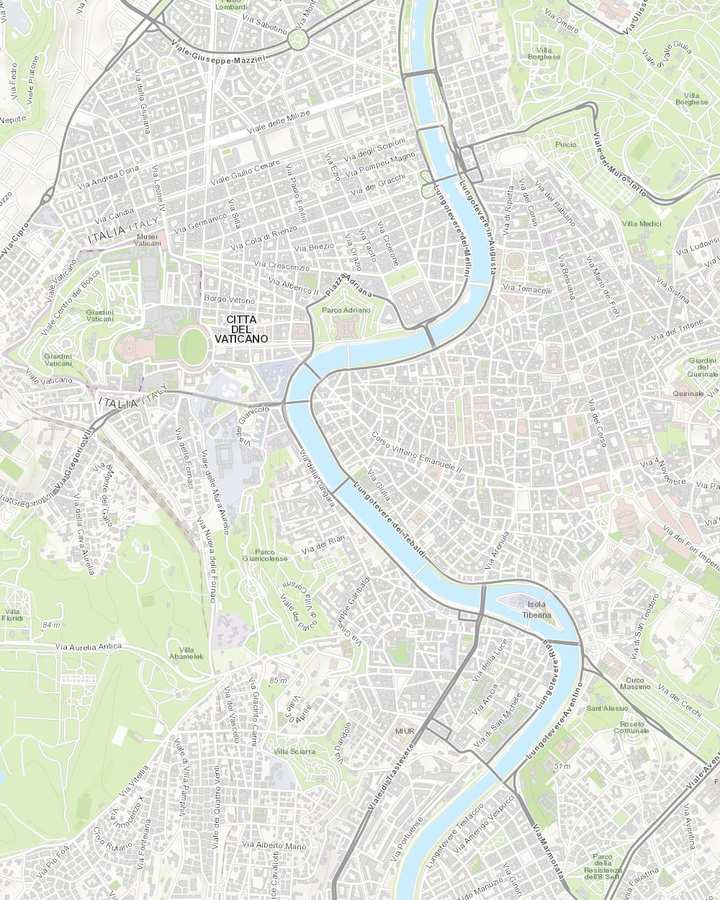
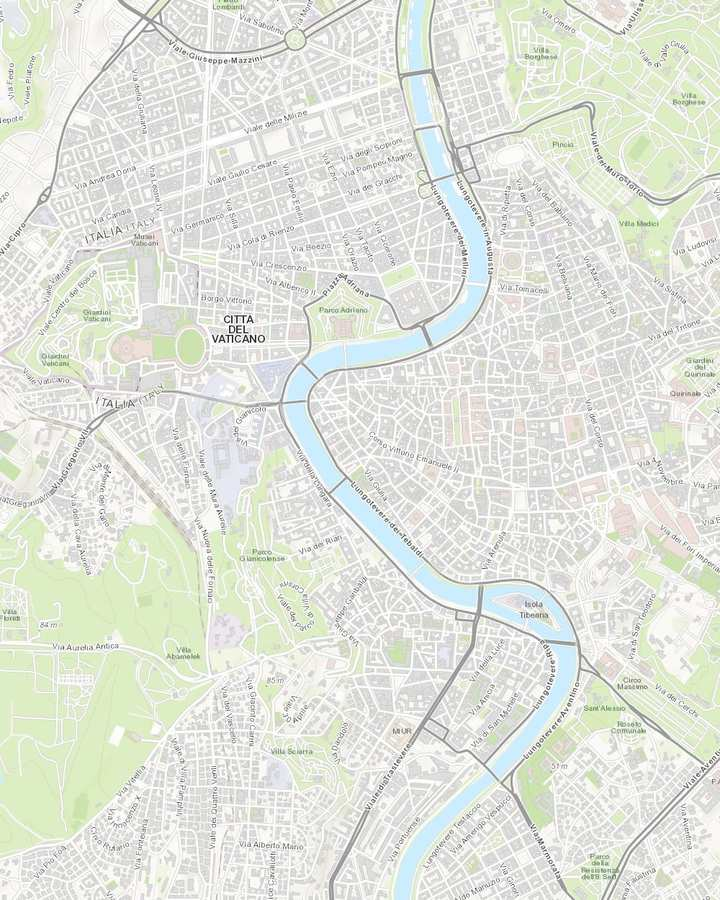
第 37 轮：博尔盖塞放弃→D2 巴贝里尼宫 + 特雷维 + 可选万神殿，D3 上午 Doria Pamphilj；地图 2、3 重画

diff --git a/index.html b/index.html
@@ -671,16 +671,17 @@ var DAYS = [
   drive:"", stayShort:"罗马 Castro Pretorio",
   stay:{ t:"罗马 Castro Pretorio 3 · 第 2 晚", d:"Via del Castro Pretorio 30。", addr:"Via del Castro Pretorio 30, 00185 Roma" },
   wc:["roma"],
-  flag:"※ 13:15 集合是硬时间。博尔盖塞没票：16:15 前到馆排 last minute 现场票（Plan A），最晚 17:50 没排上就走 Plan B；不想赌就直接 Plan C Palazzo Barberini。今天打车 3 次共约 €30-45",
+  flag:"※ 13:15 集合是硬时间。博尔盖塞售罄放弃，下午改巴贝里尼宫。今天打车 2 次约 €20-25（斗兽场→巴贝里尼宫、晚饭后回家）",
   route:[
     {n:"Castro Pretorio 3 民宿", m:"Via del Castro Pretorio 30 Roma", leg:"步行约 5 分钟"},
     {n:"早午饭 Faro Caffè Specialty", m:"Faro Caffe Specialty Via Piave 55 Roma", leg:"步行约 11 分钟"},
     {n:"圣母胜利教堂 · 贝尼尼《圣特雷莎的狂喜》", m:"Santa Maria della Vittoria Roma", leg:"步行 9 分钟到 Termini · B 线一站到 Cavour"},
     {n:"Madonna dei Monti 小广场", m:"Piazza della Madonna dei Monti Roma", leg:"步行约 10 分钟"},
-    {n:"斗兽场 + 古罗马广场", m:"Colosseo", leg:"🚕 约 15 分钟"},
-    {n:"博尔盖塞美术馆（排现场票；Plan B 走公园到 Pincio 露台；Plan C 改去 Palazzo Barberini）", m:"Galleria Borghese Roma", leg:"🚕 约 10 分钟（或经西班牙台阶走 30 分钟）"},
-    {n:"晚饭 Pietro al Pantheon", m:"Pietro al Pantheon Via dei Pastini 125 Roma", leg:"步行约 7 分钟"},
-    {n:"特雷维喷泉夜景", m:"Fontana di Trevi Roma", leg:"🚕 约 8 分钟"},
+    {n:"斗兽场 + 古罗马广场", m:"Colosseo", leg:"🚕 约 7 分钟"},
+    {n:"巴贝里尼宫", m:"Palazzo Barberini Roma", leg:"步行约 10 分钟"},
+    {n:"特雷维喷泉", m:"Fontana di Trevi Roma", leg:"步行约 9 分钟"},
+    {n:"万神殿（可选，进去 25 分钟）", m:"Pantheon Roma", leg:"步行约 1 分钟"},
+    {n:"晚饭 Pietro al Pantheon", m:"Pietro al Pantheon Via dei Pastini 125 Roma", leg:"🚕 约 8 分钟"},
     {n:"Castro Pretorio 3 民宿", m:"Via del Castro Pretorio 30 Roma"}
   ],
   steps:[
@@ -720,33 +721,25 @@ var DAYS = [
       need:["三本护照——实名制，闸机查证件","讲解团确认单 / 集合点通知"],
       ticket:true, nav:{m:"Colosseo", mode:"walking"}, place:"Colosseo",
       video:"https://search.bilibili.com/all?keyword=%E6%96%97%E5%85%BD%E5%9C%BA%20%E8%AE%B2%E8%A7%A3" },
-    { id:"d2-5", t:"16:00", hard:"16:15 前到馆，越早越稳", e:"🚕", a:"出园直接打车 15 分钟去博尔盖塞美术馆",
-      sub:"美术馆在西班牙台阶北边的博尔盖塞公园里，离斗兽场 4 公里；地铁要换乘再走 20 分钟上坡，打车最省事。告诉司机 Galleria Borghese，在正门台阶前下车；到了别在公园坐，直接进去排队。选 Plan C 的话，这程改去 Palazzo Barberini，7 分钟。",
-      nav:{m:"Galleria Borghese Roma", mode:"driving"} },
-    { id:"d2-6", t:"16:15", e:"🎟", a:"Plan A：排 last minute 现场票", it:"Galleria Borghese · biglietti last minute",
-      sub:"我们没票。正门（上面插三面旗）的双向台阶下面正中间那个拱门进去，就是地下一层的售票处、存包处和书店。门口立着 Today sold out 的牌子不用管，那是预约票卖完的意思。进去往里走，卡拉瓦乔《捧果篮的男孩》海报旁边就是 last minute 的队，开口问工作人员「where is the end of the last minute line」，别排错队。每个整点场放约 13 张现场票，工作人员看退票和没来的人数常会多放几个，一般 x:20 到整点前陆续放；每人限买 2 张，所以爸爸和我一起排、各买一次。16:15 到，排 40 分钟到 1 小时，大概率拿到 17:00 场；没拿到就接着排 17:45 场（到 19:00 清场，只有 1 小时 15 分）。",
-      tips:["排队时先把超过 21×15 cm 的包存了（免费），买完票直接进","买票旁边的柜台租中文讲解器 €5 一个，押存包小票就行，不用押证件","妈妈可以先在馆内咖啡座或公园长椅歇着，放人时再叫她","1、4 月有帖子遇到过只放 1 个名额、或队伍太长被禁止再排的情况，所以宁可早到，也别抱必进的期待"],
-      need:["信用卡或 Apple Pay：现场票 €16–18/人（含 €2 预约费），17:45 场 €13"],
-      warn:["售票处 18:00 关门，18:00 前没拿到票就是没了","别信门口拉客卖「今日票」的人"],
-      ticket:true, nav:{m:"Galleria Borghese Roma", mode:"walking"}, place:"Galleria Borghese Roma" },
-    { id:"d2-6b", t:"17:00 或 17:45", hard:"到点清场，19:00 全馆关门", e:"🖼", a:"排到了：进馆看贝尼尼和卡拉瓦乔", it:"Galleria Borghese",
-      sub:"17:00 场有 2 小时，1.5 小时够；17:45 场只有 1 小时 15 分，就只看一楼。",
-      tips:["重点在一楼：贝尼尼四件（阿波罗与达芙妮、普鲁托与珀耳塞福涅、大卫、埃涅阿斯）和卡拉瓦乔；二楼的画挑着看","快到点广播会催，别恋战"],
-      place:"Galleria Borghese Roma",
-      video:"https://www.bilibili.com/video/BV18cKoz6Esa/" },
-    { id:"d2-6c", t:"最晚 17:50", e:"🌳", a:"Plan B：没排上 → 公园走到 Pincio 露台看日落，再去万神殿", optional:true,
-      sub:"工作人员说这场满了、或 17:50 还没拿到票，就放弃。从美术馆往西穿博尔盖塞公园走 15–20 分钟到 Terrazza del Pincio，露台正对人民广场，10/7 日落约 18:40。看完从台阶下到人民广场，打车 8 分钟到万神殿（顺 Via del Corso 走要 25 分钟，不走），先看广场夜景，19:30 按原订位吃饭；想早点吃就打电话给 Pietro al Pantheon 改 19:00。",
-      tips:["早早放弃（17:00 前）的话，公园里的 Giardino del Lago 小湖和 Pincio 之间慢慢走，正好耗到日落","这条线本来就是晚饭前的下坡路，不绕"],
-      nav:{m:"Terrazza del Pincio Roma", mode:"walking"}, place:"Terrazza del Pincio Roma" },
-    { id:"d2-6d", t:"16:15 起", e:"🖼", a:"Plan C 不排队：Palazzo Barberini 1.5 小时（卡拉瓦乔、拉斐尔、贝尼尼）", it:"Gallerie Nazionali di Arte Antica · Palazzo Barberini", optional:true,
-      sub:"不想赌现场票就选这条：斗兽场团散了打车 7 分钟到 Via delle Quattro Fontane 13。周二至周日 10:00–19:00，售票处 18:00 关，周三开；成人 €15（65 岁以上没有优惠），票 20 天内还能进一次 Galleria Corsini；现场买，也可以在 coopculture.it 预订。重点三件：24 号厅卡拉瓦乔《朱迪斯斩首荷罗孚尼》、16 号厅拉斐尔《弗娜丽娜》、贝尼尼的乌尔班八世铜像；大厅天顶是科尔托纳的《神意的胜利》巨幅湿壁画，两座楼梯一座贝尼尼一座博罗米尼。17:45 出来走 10 分钟到特雷维喷泉看白天版，再走 9 分钟到万神殿广场，19:30 晚饭；晚上那步特雷维夜景就可以省了。",
+    { id:"d2-5", t:"16:00", e:"🚕", a:"出园打车 7 分钟到巴贝里尼宫",
+      sub:"散团后在 Via dei Fori Imperiali 那侧拦车或 FreeNow，跟司机说 Palazzo Barberini, Via delle Quattro Fontane 13。16:10 到，售票处 18:00 关，进去先买票。",
+      nav:{m:"Palazzo Barberini Roma", mode:"driving"} },
+    { id:"d2-6", t:"16:15", e:"🖼", a:"巴贝里尼宫 1.5 小时：卡拉瓦乔、拉斐尔、贝尼尼", it:"Gallerie Nazionali di Arte Antica · Palazzo Barberini",
+      sub:"博尔盖塞的替代，周三开。周二至周日 10:00–19:00，售票处 18:00 关；成人 €15，票 20 天内还能进一次 Galleria Corsini；现场买，也可以在 coopculture.it 预订。重点三件：24 号厅卡拉瓦乔《朱迪斯斩首荷罗孚尼》、16 号厅拉斐尔《弗娜丽娜》、贝尼尼的乌尔班八世铜像；大厅天顶是科尔托纳的《神意的胜利》巨幅湿壁画，两座楼梯一座贝尼尼一座博罗米尼。17:45 出来。",
       tips:["和博尔盖塞比：少了贝尼尼四件大雕塑，多了两幅一线名画，不用排队；贝尼尼上午在圣母胜利教堂已经看过最好的一件","《朱迪斯》约 1599 年，卡拉瓦乔最血腥的一张；《弗娜丽娜》是拉斐尔情人的画像"],
-      addr:["Palazzo Barberini：Via delle Quattro Fontane 13, Roma"],
-      nav:{m:"Palazzo Barberini Roma", mode:"driving"}, place:"Palazzo Barberini Roma",
+      need:["€15 × 3，刷卡"],
+      ticket:true, addr:["Palazzo Barberini：Via delle Quattro Fontane 13, Roma"],
+      nav:{m:"Palazzo Barberini Roma", mode:"walking"}, place:"Palazzo Barberini Roma",
       link:{u:"https://www.coopculture.it/it/prodotti/biglietto-individuali-palazzo-barberini/", l:"coopculture.it 买票"} },
-    { id:"d2-7", t:"19:00", e:"🚕", a:"Porta Pinciana 门出公园，打车 10 分钟到万神殿边上",
-      sub:"Plan A 看完 19:00 出来，19:15 就到，早到就在万神殿广场坐一会。",
-      nav:{m:"Pietro al Pantheon Via dei Pastini 125 Roma", mode:"driving"} },
+    { id:"d2-7", t:"17:45", e:"⛲", a:"走 10 分钟到特雷维喷泉，看白天版 10 分钟",
+      sub:"沿 Via delle Quattro Fontane 下坡、右转 Via del Tritone 到头。靠水的内圈 2026 年起收 €2（22:00 后免费），外圈台阶上看免费，白天看一眼就好。看完走 9 分钟到万神殿广场。",
+      nav:{m:"Fontana di Trevi Roma", mode:"walking"}, place:"Fontana di Trevi Roma" },
+    { id:"d2-7b", t:"18:15", e:"🏛", a:"有精力：万神殿进去 25 分钟（€7，手机现买 18:00 时段）+ 隔壁圣依纳爵假穹顶 10 分钟", it:"Pantheon · Sant'Ignazio", optional:true,
+      sub:"看精力定，不用提前买票。里面一个圆厅：穹顶和天眼那束光、拉斐尔的墓、两位国王的墓，25 分钟够。18:30 是最后入场，售票处 18:00 关，所以只能网上买：在巴贝里尼宫里觉得还有劲，就用 Musei Italiani App 买 18:00 那档（步骤见准备）。出来走 3 分钟到圣依纳爵堂（Via del Caravita 8/A，免费，开到 23:30）：中殿地上大理石圆盘站上去抬头看假穹顶，往祭坛走 3 米回头它就歪了；中央躺着的大镜子不用仰头看天顶画。没精力就在万神殿广场坐着等 19:30。",
+      tips:["Musei Italiani App 买票：搜 Pantheon → 日期 07/10/2026 → 时段 18:00 → 3 张 Intero → 填三个人名（实名）→ 刷卡 → 二维码在 App 和邮件里，进门出示 + 护照","每个时段 1,200 人，10 月傍晚一般买得到；买不到就不进，看外面"],
+      addr:["Pantheon：Piazza della Rotonda, Roma","Chiesa di Sant'Ignazio：Via del Caravita 8/A, Roma"],
+      nav:{m:"Pantheon Roma", mode:"walking"}, place:"Pantheon Roma",
+      link:{u:"https://portale.museiitaliani.it/", l:"官方售票 portale.museiitaliani.it"} },
     { id:"d2-8", t:"19:30", e:"🍝", a:"晚饭 Pietro al Pantheon：罗马四大面 + 炸洋蓟 + 番茄炖牛尾", kind:"eat",
       sub:"万神殿东边小巷里的老馆子。罗马菜的招牌四种面（carbonara、cacio e pepe、amatriciana、gricia）、炸洋蓟、牛尾 coda alla vaccinara、炸西葫芦花这家全有；出门两分钟就是万神殿广场，明早再进去看。",
       meals:[
@@ -761,11 +754,8 @@ var DAYS = [
       ],
       addr:["Pietro al Pantheon：Via dei Pastini 125, Roma","Antonio al Pantheon：Via dei Pastini 12, Roma"],
       nav:{m:"Pietro al Pantheon Via dei Pastini 125 Roma", mode:"walking"} },
-    { id:"d2-9", t:"21:15", e:"⛲", a:"先看一眼万神殿广场夜景，再走 7 分钟到特雷维喷泉",
-      sub:"喷泉内圈 22:00 前开放，晚上人比白天少。",
-      nav:{m:"Fontana di Trevi Roma", mode:"walking"}, place:"Fontana di Trevi Roma" },
     { id:"d2-10", t:"饭后", e:"🚕", a:"打车 8 分钟回家",
-      sub:"想走的话 20 分钟。住处 12 分钟外的 Come il Latte（Via Silvio Spaventa 24，Google 4.7 / 4,879 评）是罗马数一数二的冰淇淋，12:00 起营业，哪天回来早顺路吃。",
+      sub:"想走的话 20 分钟；还想看特雷维夜景版就先走 7 分钟过去（22:00 后内圈免费）再打车。住处 12 分钟外的 Come il Latte（Via Silvio Spaventa 24，Google 4.7 / 4,879 评）是罗马数一数二的冰淇淋，12:00 起营业，哪天回来早顺路吃。",
       nav:{m:"Via del Castro Pretorio 30 Roma", mode:"driving"} }
   ]
 },
@@ -776,11 +766,10 @@ var DAYS = [
   drive:"", stayShort:"罗马 Castro Pretorio",
   stay:{ t:"罗马 Castro Pretorio 3 · 第 3 晚（明早退房）", d:"Via del Castro Pretorio 30 · 退房 10:00。", addr:"Via del Castro Pretorio 30, 00185 Roma" },
   wc:["roma"],
-  flag:"※ 13:15 集合是硬时间；梵蒂冈着装过膝盖、过肩膀。今天打车 3 次约 €35（早上那程可换 40/64 路公交）",
+  flag:"※ 13:15 集合是硬时间；梵蒂冈着装过膝盖、过肩膀。今天打车 3 次约 €35（早上那程可换 40/64 路公交到 Piazza Venezia）",
   route:[
     {n:"Castro Pretorio 3 民宿", m:"Via del Castro Pretorio 30 Roma", leg:"🚕 约 10 分钟"},
-    {n:"万神殿", m:"Pantheon Roma", leg:"步行约 3 分钟"},
-    {n:"圣依纳爵堂 假穹顶", m:"Chiesa di Sant Ignazio di Loyola Roma", leg:"步行约 8 分钟"},
+    {n:"Doria Pamphilj 美术馆", m:"Galleria Doria Pamphilj Roma", leg:"步行约 7 分钟"},
     {n:"纳沃纳广场", m:"Piazza Navona Roma", leg:"步行约 15 分钟 · 过圣天使桥"},
     {n:"圣天使堡（外观）", m:"Castel Sant Angelo Roma", leg:"步行约 10 分钟"},
     {n:"早午饭 Il Sorpasso", m:"Il Sorpasso Via Properzio 31 Roma", leg:"步行约 15 分钟"},
@@ -791,33 +780,29 @@ var DAYS = [
     {n:"Castro Pretorio 3 民宿", m:"Via del Castro Pretorio 30 Roma"}
   ],
   steps:[
-    { id:"d3-1", t:"9:15", e:"🚕", a:"出门打车 10 分钟到万神殿（€10 左右）",
-      sub:"万神殿不通地铁。三种走法：打车最省事；Termini 坐 40 或 64 路公交到 Largo Argentina 再走 5 分钟（这两路扒手多，包背身前）；或者走 35 分钟。早上先看老城中心，再往梵蒂冈方向走，不走回头路。",
-      nav:{m:"Pantheon Roma", mode:"driving"} },
-    { id:"d3-2", t:"9:30", e:"🏛", a:"万神殿：开门后半小时内进，排队最短", it:"Pantheon",
-      sub:"9:00 开门；门票 €7（2026 年 7 月起）实名，官网 10 月 1 日后当月开卖，提前买好省掉售票队，只剩安检队；9:30 前到一般十来分钟。里面 30 分钟够。今天到 13:15 集合之间有 3.5 小时余量，就算排 30 分钟也吃得下；真排太长就只看外面，去纳沃纳。出来在旁边 Sant'Eustachio 站着喝杯咖啡。",
-      need:["万神殿门票（官网当月买，或现场）","护照（票实名）"],
-      nav:{m:"Pantheon Roma", mode:"walking"}, place:"Pantheon Roma",
-      video:"https://search.bilibili.com/all?keyword=%E4%B8%87%E7%A5%9E%E6%AE%BF%20%E8%AE%B2%E8%A7%A3" },
-    { id:"d3-2b", t:"10:05", e:"🎨", a:"圣依纳爵堂看假穹顶，10 分钟", it:"Sant'Ignazio di Loyola",
-      sub:"万神殿出来走 3 分钟（Via del Caravita 8/A），免费，每天 9:00–23:30。中殿地上有个大理石圆盘：站上去抬头看 30 秒，头顶那个穹顶其实是画在平面画布上的；再往祭坛方向走 3 米回头看，它就歪了。中殿中央还有一面躺着的大镜子，不用仰头就能看天顶画，也是拍照点，有人排队自拍，看画不用排。看完走 8 分钟到纳沃纳。",
-      tips:["这个假穹顶别处没有；同一种天顶画法 5 分钟外的耶稣堂也有，不用再去","18:30 有弥撒；晚上开到 23:30，D2 晚饭后顺路也能来，但天顶画白天看得清楚"],
-      addr:["Chiesa di Sant'Ignazio：Via del Caravita 8/A, Roma"],
-      nav:{m:"Chiesa di Sant Ignazio di Loyola Roma", mode:"walking"}, place:"Chiesa di Sant Ignazio di Loyola Roma" },
-    { id:"d3-3", t:"10:30", e:"⛲", a:"纳沃纳广场",
+    { id:"d3-1", t:"9:45", e:"🚕", a:"出门打车 10 分钟到 Doria Pamphilj 美术馆（€10 左右）",
+      sub:"Via del Corso 305，Piazza Venezia 北边，跟司机说 Palazzo Doria Pamphilj。不想打车：Termini 坐 40 或 64 路到 Piazza Venezia 再走 3 分钟（这两路扒手多，包背身前）。早上先看老城中心，再往梵蒂冈方向走，不走回头路。",
+      nav:{m:"Galleria Doria Pamphilj Roma", mode:"driving"} },
+    { id:"d3-2", t:"10:00", e:"🖼", a:"Doria Pamphilj 美术馆 1 小时：委拉斯开兹、卡拉瓦乔、贝尼尼", it:"Galleria Doria Pamphilj",
+      sub:"私家宫殿改的画廊，人少安静。周四 9:00–19:00（末入 18:00），周三闭馆。票 €16 现场买（网订 €17 还要选半小时时段，不用），含语音导览（英文版是这家后人亲自录的，跟着走就行）。重点：委拉斯开兹《教皇英诺森十世》（培根反复画的那张，单独一个小间）、贝尼尼给同一位教皇做的大理石胸像就在旁边、卡拉瓦乔《逃往埃及途中的休息》和《忏悔的抹大拉》、提香《莎乐美》；镜厅本身值得站一分钟。11:00 出来走 7 分钟到纳沃纳。",
+      need:["€16 × 3，刷卡"],
+      ticket:true, addr:["Galleria Doria Pamphilj：Via del Corso 305, Roma"],
+      nav:{m:"Galleria Doria Pamphilj Roma", mode:"walking"}, place:"Galleria Doria Pamphilj Roma",
+      link:{u:"https://www.doriapamphilj.it/roma/", l:"doriapamphilj.it"} },
+    { id:"d3-3", t:"11:05", e:"⛲", a:"纳沃纳广场，15 分钟",
       sub:"广场东侧 Corso del Rinascimento 47 是佛罗伦萨那家 800 年药妆店 Santa Maria Novella 的罗马分店（4.6）。",
       nav:{m:"Piazza Navona Roma", mode:"walking"}, place:"Santa Maria Novella Corso del Rinascimento 47 Roma" },
-    { id:"d3-4", t:"11:00", e:"🌉", a:"走 15 分钟：过圣天使桥，看圣天使堡外观，进 Prati",
+    { id:"d3-4", t:"11:25", e:"🌉", a:"走 15 分钟：过圣天使桥，看圣天使堡外观，进 Prati",
       sub:"桥上是看台伯河和圣彼得穹顶的经典角度。",
       nav:{m:"Castel Sant Angelo Roma", mode:"walking"}, place:"Ponte Sant Angelo Roma" },
-    { id:"d3-5", t:"11:30", e:"🍝", a:"早午饭 Il Sorpasso", kind:"eat",
-      sub:"Prati 的 rustic-chic 小馆，坐下点单；吃完走 15 分钟到博物馆入口，13:15 集合。",
+    { id:"d3-5", t:"11:45", e:"🍝", a:"早午饭 Il Sorpasso", kind:"eat",
+      sub:"Prati 的 rustic-chic 小馆，坐下点单；12:50 吃完走 15 分钟到博物馆入口，13:15 集合。",
       meals:[
         {n:"Il Sorpasso", g:"4.4",
          d:"火腿拼盘、意面、parmigiana、tartare",
          h:"周四 9:00 起营业",
          w:"混搭桌椅的 shabby-chic 店面，切肉台是招牌；人均 €20-30",
-         b:"11:30 不订位有位", tel:"+39 06 8902 4554", m:"Il Sorpasso Via Properzio 31 Roma"},
+         b:"11:45 不订位有位", tel:"+39 06 8902 4554", m:"Il Sorpasso Via Properzio 31 Roma"},
         {n:"备选 Il Segreto", g:"4.8",
          d:"cacio e pepe、ravioli、烤牛排",
          h:"周四 12:00 开门",
@@ -826,7 +811,7 @@ var DAYS = [
       ],
       addr:["Il Sorpasso：Via Properzio 31/33, Roma","Il Segreto：Via Candia 71, Roma"],
       nav:{m:"Il Sorpasso Via Properzio 31 Roma", mode:"walking"} },
-    { id:"d3-5b", t:"12:35", e:"🍦", a:"饭后 4 分钟：Gelateria dei Gracchi", optional:true,
+    { id:"d3-5b", t:"12:45", e:"🍦", a:"饭后 4 分钟：Gelateria dei Gracchi", optional:true,
       sub:"Via dei Gracchi 272，Prati 本地人排队的老店；Google 4.5（3,084 评），当季水果口味和开心果；11:30 开门。吃完走 15 分钟去集合。",
       addr:["Gelateria dei Gracchi：Via dei Gracchi 272, Roma"],
       nav:{m:"Gelateria dei Gracchi Via dei Gracchi 272 Roma", mode:"walking"} },
@@ -1576,43 +1561,41 @@ var MAPS2 = {
   "2": {
     w:1000, h:1250,
     img:"maps/2.jpg",
-    walk:[[832,647],[835,644],[821,629],[819,627],[806,612],[804,611],[787,591],[772,574],[770,573],[767,574],[767,571],[766,568],[765,566],[763,564],[761,563],[759,562],[758,560],[757,558],[741,540],[739,538],[721,518],[719,516],[708,505],[706,503],[705,501],[690,485],[678,472],[670,480],[668,475],[667,472],[665,463],[664,458],[658,422],[658,417],[656,408],[656,405],[654,393],[654,393],[656,404],[656,407],[658,417],[658,422],[664,458],[664,462],[666,472],[665,474],[663,476],[657,481],[646,493],[644,494],[629,508],[627,510],[621,516],[611,525],[609,527],[603,532],[595,540],[593,541],[576,557],[561,572],[558,572],[555,569],[555,569],[557,571],[559,572],[558,574],[559,576],[563,581],[565,583],[567,585],[568,587],[577,597],[580,601],[584,605],[591,616],[593,617],[594,615],[597,615],[599,614],[601,613],[604,613],[607,613],[609,614],[610,618],[611,620],[613,623],[619,630],[621,631],[624,633],[635,635],[638,636],[644,638],[652,641],[654,642],[657,642],[660,642],[663,640],[665,642],[668,646],[670,648],[672,647],[674,646],[675,644],[678,644],[692,654],[694,652],[538,878],[536,881],[533,882],[532,880],[509,887],[508,885],[508,882],[507,879],[506,877],[495,879],[494,877],[492,870],[490,869],[484,871],[480,872],[477,873],[478,877],[479,882],[478,884],[477,886],[481,897],[481,900],[482,902],[487,915],[489,923],[493,935],[496,944],[501,963],[505,979],[506,982],[507,984],[509,985],[512,985],[514,984],[515,986],[512,987],[511,989],[505,989],[504,991],[504,994],[504,998],[507,275],[500,283],[498,285],[490,296],[479,309],[470,321],[468,324],[466,326],[451,346],[439,360],[434,368],[416,363],[407,360],[403,359],[370,348],[367,349],[361,344],[354,338],[340,327],[338,328],[335,329],[333,327],[330,328],[307,340],[282,353],[273,357],[268,360],[265,362],[258,364],[253,365],[245,368],[239,370],[226,374],[223,375],[222,373],[219,374],[217,372],[214,370],[216,367],[216,366],[457,611],[455,612],[452,613],[451,616],[453,618],[450,626],[448,628],[447,630],[452,634],[447,641],[445,639],[425,638],[422,639],[420,640],[401,645],[387,648],[385,646],[383,645],[381,647],[379,649],[376,652],[360,662],[341,675],[339,672],[335,675],[327,680],[324,682],[313,689],[311,687],[309,686],[305,688],[302,688],[300,687],[298,685],[300,691],[295,694],[290,696],[284,698],[280,701],[269,704],[251,709],[247,710],[248,712],[245,712],[239,713],[231,714],[223,715],[217,715],[208,715],[203,718],[199,721],[197,722],[194,725],[190,728],[188,729],[180,731],[175,732],[175,732],[180,731],[188,729],[190,728],[194,725],[197,724],[199,721],[203,718],[208,715],[217,715],[222,715],[231,714],[238,714],[244,712],[248,712],[247,710],[251,709],[269,704],[280,701],[284,699],[290,696],[295,694],[299,692],[297,685],[299,687],[301,688],[304,687]],
-    walkBreaks:[37, 62, 106, 147, 187, 244],
-    drive:[[504,983],[507,983],[509,982],[513,981],[519,983],[523,984],[527,985],[529,983],[530,980],[533,976],[533,973],[534,971],[535,967],[540,954],[543,956],[548,958],[554,960],[558,961],[561,962],[565,962],[568,962],[571,962],[574,961],[577,960],[580,959],[584,958],[586,956],[593,951],[598,947],[615,932],[621,927],[630,918],[632,917],[634,915],[646,905],[648,903],[657,895],[662,891],[677,878],[679,876],[683,872],[685,870],[689,870],[695,870],[698,871],[697,868],[695,862],[694,860],[689,849],[687,844],[686,842],[677,820],[677,817],[678,814],[679,812],[682,808],[683,806],[683,803],[682,801],[680,799],[679,797],[679,788],[677,785],[675,783],[666,776],[657,771],[655,769],[650,767],[638,759],[636,758],[634,756],[632,752],[623,733],[622,731],[620,729],[614,716],[611,709],[606,699],[604,695],[601,688],[595,676],[590,668],[583,654],[581,651],[583,650],[585,649],[590,645],[594,642],[596,640],[598,639],[601,638],[604,637],[607,637],[610,636],[611,634],[613,631],[613,628],[612,626],[611,624],[609,623],[607,622],[604,622],[602,621],[600,620],[598,619],[597,617],[595,616],[590,610],[586,605],[582,600],[591,592],[600,585],[609,577],[616,571],[618,569],[602,551],[597,545],[595,544],[593,541],[585,531],[583,530],[581,529],[560,522],[558,521],[556,520],[555,518],[552,503],[550,495],[549,489],[542,455],[541,452],[537,429],[536,427],[532,406],[532,403],[527,384],[527,381],[526,377],[525,374],[524,370],[524,366],[517,334],[517,331],[518,328],[533,298],[534,296],[536,294],[538,291],[541,286],[541,283],[546,274],[547,272],[548,270],[549,264],[551,252],[558,254],[559,256],[553,265],[551,268],[550,270],[547,273],[541,283],[540,285],[536,290],[536,290],[535,292],[534,296],[533,298],[518,326],[517,328],[515,330],[512,336],[511,338],[510,342],[503,355],[502,357],[501,359],[499,361],[487,370],[479,373],[456,390],[442,400],[440,401],[436,403],[430,404],[425,405],[422,406],[420,407],[419,410],[419,414],[419,418],[420,421],[422,423],[426,428],[430,436],[432,439],[433,441],[442,457],[443,459],[445,462],[456,480],[457,483],[459,486],[464,495],[465,498],[466,500],[467,504],[467,508],[466,511],[465,513],[466,516],[479,527],[481,530],[484,532],[486,533],[488,535],[490,536],[511,545],[524,551],[531,554],[535,557],[538,560],[540,562],[542,565],[544,566],[550,571],[553,577],[554,579],[553,581],[550,584],[543,591],[526,606],[524,608],[522,609],[520,611],[518,613],[516,614],[515,616],[513,619],[511,620],[490,640],[483,647],[479,650],[477,652],[475,654],[466,663],[463,665],[454,673],[440,687],[436,690],[428,698],[424,702],[412,714],[398,728],[396,729],[394,732],[392,733],[390,737],[389,739],[387,743],[386,747],[385,749],[385,752],[384,761],[384,777],[384,780],[385,783],[387,791],[388,794],[388,798],[389,805],[390,816],[390,819],[385,823],[382,825],[378,828],[375,830],[372,831],[367,831],[358,833],[356,832],[352,823],[352,820],[350,815],[347,803],[346,801],[344,800],[342,801],[327,805],[319,808],[312,810],[307,811],[305,812],[297,813],[292,814],[288,815],[286,816],[281,817],[278,818],[271,820],[268,819],[266,820],[245,825],[240,809],[240,806],[238,802],[234,785],[233,783],[248,777],[247,773],[244,756],[243,752],[243,748],[240,736],[230,738],[226,738],[223,739],[217,739],[215,737],[215,734],[214,732],[218,727],[220,725],[222,724],[222,716],[219,711],[219,697],[199,701],[195,702],[193,709],[179,712],[170,713],[170,720],[165,729],[165,730],[504,983],[507,983],[509,982],[513,981],[519,983],[523,984],[527,985],[529,983],[530,980],[533,976],[533,973],[534,971],[535,967],[540,954],[543,956],[548,958],[554,960],[558,961],[561,962],[565,962],[568,962],[571,962],[574,961],[577,960],[580,959],[584,958],[586,956],[593,951],[598,947],[615,932],[621,927],[630,918],[632,917],[634,915],[646,905],[648,903],[657,895],[662,891],[677,878],[679,876],[674,871],[653,870],[649,869],[642,869],[633,869],[628,869],[620,869],[596,869],[593,869],[590,869],[587,869],[584,869],[581,869],[578,869],[575,870],[572,870],[568,871],[565,872],[560,873],[553,875],[549,877],[546,878],[543,873],[544,869],[560,847],[577,825],[594,803],[597,800],[600,796],[595,798],[592,798],[589,798],[587,799],[585,800],[583,801],[574,803],[567,804],[562,806],[554,807],[547,809],[543,810],[534,812],[528,814],[525,815],[522,813],[520,811],[513,802],[499,786],[484,770],[483,768],[479,764],[474,758],[470,754],[468,751],[465,747],[453,735],[450,732],[444,725],[379,649],[373,644],[371,640],[371,636],[374,627],[375,621],[376,619],[382,617],[388,615],[390,614],[409,608],[412,607],[414,606],[417,607],[421,610],[423,612],[444,628],[447,630],[448,628],[450,626],[453,618],[451,616],[452,614],[455,612],[457,611],[295,683],[287,684],[284,684],[281,685],[275,686],[264,689],[243,696],[241,697],[239,691],[237,684],[235,676],[234,674],[234,671],[235,669],[237,668],[240,667],[255,662],[257,660],[259,658],[268,655],[282,651],[284,650],[290,648],[311,641],[320,638],[323,637],[335,633],[347,630],[355,627],[357,626],[364,623],[376,619],[382,617],[388,615],[390,614],[409,608],[412,607],[414,606],[417,607],[419,606],[422,606],[434,600],[438,598],[441,596],[464,586],[475,581],[494,572],[501,569],[503,568],[505,567],[507,566],[510,565],[514,564],[517,564],[520,564],[523,564],[528,564],[531,564],[536,565],[539,566],[543,567],[550,571],[554,575],[556,576],[558,578],[560,579],[563,581],[565,583],[567,585],[568,587],[577,597],[580,601],[582,600],[591,592],[600,585],[609,577],[616,571],[618,569],[622,574],[624,575],[627,574],[631,571],[634,569],[654,550],[657,547],[659,546],[662,549],[675,562],[682,570],[692,581],[694,584],[704,595],[709,600],[711,602],[713,604],[715,607],[717,610],[719,611],[723,615],[731,624],[733,625],[735,628],[738,631],[740,633],[742,635],[745,638],[749,641],[760,650],[762,652],[777,665],[780,666],[796,680],[798,682],[801,685],[803,683],[816,669],[825,659],[827,657],[835,649]],
-    driveBreaks:[164, 335, 458],
-    title:"D2 罗马东区（步行 + 地铁 B + 打车；Plan B Pincio / Plan C Barberini）",
+    walk:[[839,576],[842,573],[828,559],[826,557],[812,542],[811,540],[794,520],[779,503],[777,502],[775,503],[773,504],[774,502],[773,499],[772,496],[771,494],[769,493],[767,492],[765,490],[764,488],[747,469],[746,467],[728,448],[726,446],[715,434],[713,432],[711,430],[697,415],[685,402],[677,409],[674,404],[673,402],[671,393],[671,387],[665,351],[664,346],[663,337],[663,334],[661,323],[661,323],[662,333],[663,336],[664,346],[665,351],[671,387],[671,391],[673,402],[671,404],[670,406],[664,411],[652,422],[651,424],[636,437],[634,439],[628,445],[618,455],[616,456],[610,462],[601,469],[600,471],[582,487],[567,501],[565,502],[563,501],[561,498],[561,498],[563,501],[565,502],[565,505],[567,507],[569,511],[572,512],[574,515],[584,526],[587,531],[591,535],[590,537],[598,546],[601,545],[605,543],[607,542],[610,542],[614,543],[616,545],[617,547],[618,550],[620,552],[626,560],[629,562],[641,565],[645,566],[651,568],[658,570],[661,571],[663,572],[666,572],[668,571],[670,569],[671,571],[675,575],[677,578],[679,576],[682,574],[685,573],[699,583],[701,581],[544,808],[543,810],[540,812],[539,810],[516,817],[515,815],[514,811],[513,808],[502,809],[501,807],[499,800],[497,798],[491,800],[486,801],[484,802],[485,807],[486,811],[484,812],[484,815],[487,827],[488,830],[490,832],[494,845],[496,852],[500,865],[502,874],[508,893],[512,908],[513,911],[514,914],[517,914],[520,914],[522,915],[519,917],[518,919],[511,918],[511,922],[511,927],[464,540],[461,541],[458,543],[459,545],[459,548],[456,555],[455,557],[453,560],[459,564],[453,571],[452,569],[432,568],[428,569],[407,574],[393,578],[391,576],[387,577],[383,581],[367,592],[348,604],[346,602],[342,604],[333,610],[330,612],[320,618],[318,619],[317,617],[315,616],[312,617],[309,618],[307,617],[305,614],[306,621],[302,623],[297,626],[291,628],[287,630],[276,633],[257,639],[254,640],[252,642],[246,643],[238,644],[229,645],[224,644],[214,645],[209,647],[205,650],[203,652],[204,654],[201,655],[197,657],[195,659],[186,661],[170,664],[167,665],[164,670],[158,671],[159,675],[159,681],[159,675],[158,671],[162,670],[167,665],[170,664],[182,662]],
+    walkBreaks:[38, 64, 105, 143],
+    drive:[[511,912],[514,912],[519,911],[526,912],[530,913],[532,914],[535,914],[537,909],[539,905],[540,903],[541,901],[542,897],[547,884],[549,885],[551,886],[554,887],[557,888],[561,889],[565,891],[568,891],[570,892],[573,892],[576,892],[579,891],[582,890],[585,889],[589,888],[592,887],[594,885],[600,880],[604,877],[622,861],[628,856],[637,848],[639,846],[641,845],[653,834],[655,832],[664,825],[669,820],[683,808],[686,805],[681,801],[680,799],[659,799],[656,799],[649,799],[639,799],[635,799],[627,799],[603,798],[600,798],[597,798],[594,798],[590,798],[587,799],[583,799],[580,799],[578,800],[575,800],[573,801],[569,802],[566,803],[560,805],[556,806],[553,807],[550,803],[549,801],[551,798],[567,777],[584,755],[601,733],[604,729],[606,726],[602,727],[599,728],[596,728],[593,729],[590,730],[580,732],[573,734],[568,735],[561,737],[554,739],[549,740],[540,742],[535,743],[531,744],[529,743],[527,740],[519,731],[506,716],[491,700],[490,698],[486,694],[480,687],[477,683],[474,680],[471,677],[460,665],[457,661],[451,654],[386,579],[380,573],[377,570],[377,565],[380,556],[382,551],[383,548],[389,546],[395,544],[416,537],[418,536],[421,536],[424,536],[428,540],[430,541],[450,558],[453,560],[454,558],[456,557],[459,548],[458,546],[459,544],[461,541],[464,540],[172,659],[171,662],[170,664],[167,665],[168,674],[186,674],[196,674],[203,673],[215,671],[219,670],[221,680],[223,694],[223,697],[224,704],[226,712],[227,715],[230,715],[235,714],[238,713],[240,714],[245,730],[236,734],[236,738],[236,741],[236,744],[238,758],[239,761],[232,763],[224,766],[217,768],[214,769],[211,771],[209,772],[209,775],[213,779],[220,786],[232,797],[234,799],[237,801],[240,801],[242,800],[245,799],[248,799],[251,799],[253,800],[255,801],[256,803],[258,805],[258,812],[259,816],[260,818],[261,820],[263,823],[264,825],[265,827],[267,828],[270,830],[274,830],[277,829],[278,827],[280,824],[281,821],[282,817],[282,814],[283,811],[282,809],[282,803],[282,800],[282,797],[283,794],[284,791],[286,788],[287,786],[288,784],[285,774],[278,750],[285,748],[288,747],[292,745],[295,744],[299,744],[301,743],[311,741],[314,741],[319,740],[322,742],[338,754],[343,754],[347,755],[350,755],[357,753],[359,752],[362,760],[363,762],[374,761],[379,760],[389,761],[392,761],[395,761],[396,759],[397,757],[398,754],[397,751],[397,748],[397,745],[396,735],[395,730],[395,725],[394,723],[393,720],[392,715],[391,711],[391,708],[391,692],[391,682],[392,678],[394,673],[395,670],[396,668],[397,666],[398,664],[400,661],[402,659],[404,657],[418,644],[431,631],[434,628],[443,620],[446,617],[461,603],[470,594],[472,592],[482,583],[484,582],[486,580],[490,576],[497,570],[518,549],[522,547],[524,545],[528,541],[530,539],[533,536],[549,521],[551,520],[554,520],[556,521],[559,520],[561,518],[566,514],[569,512],[572,512],[574,515],[584,526],[587,531],[598,522],[607,514],[616,507],[623,500],[625,499],[629,503],[631,505],[633,504],[638,501],[640,499],[661,480],[664,477],[666,475],[669,479],[682,492],[689,500],[698,511],[701,513],[711,524],[716,530],[718,533],[720,534],[722,537],[724,539],[726,541],[729,544],[738,553],[739,555],[741,557],[743,559],[745,561],[747,563],[749,565],[752,567],[756,571],[766,579],[769,581],[784,594],[786,596],[803,609],[805,611],[808,614],[822,599],[832,588],[834,587],[841,579]],
+    driveBreaks:[126],
+    title:"D2 罗马东区（步行 + 地铁 B + 打车）",
     pins:[
-      {x:832,y:647,n:1,k:"stay",l:"住处·卡斯特罗",m:"Via del Castro Pretorio 30 Roma",mo:"walking",leg:"步行 5 分"},
-      {x:655,y:393,n:2,k:"eat",l:"Faro Caffè Specialty",m:"Faro Caffe Specialty Via Piave 55 Roma",mo:"walking",leg:"步行 11 分"},
-      {x:557,y:566,n:3,k:"sight",l:"圣母胜利教堂·贝尼尼《圣特雷莎的狂喜》",m:"Santa Maria della Vittoria Roma",mo:"walking",leg:"步行 9 分到 Termini"},
-      {x:694,y:652,n:4,k:"transit",l:"Termini 地铁 B",m:"Termini Roma",mo:"walking",leg:"地铁 B 一站到 Cavour"},
-      {x:480,y:874,n:5,k:"sight",l:"Monti 小广场",m:"Piazza della Madonna dei Monti Roma",mo:"walking",leg:"步行 10 分到集合点"},
-      {x:504,y:998,n:6,k:"sight",l:"斗兽场·古罗马",m:"Colosseo",mo:"walking",leg:"打车 15 分（Plan C：打车 7 分去 Barberini）"},
-      {x:509,y:272,n:7,k:"sight",l:"博尔盖塞美术馆（排现场票）",m:"Galleria Borghese Roma",mo:"driving",leg:"打车 10 分（没排上：走 15 分到 Pincio）"},
-      {x:216,y:366,n:8,k:"sight",l:"Pincio 露台（Plan B）",m:"Terrazza del Pincio Roma",mo:"walking",leg:"打车 10 分"},
-      {x:457,y:610,n:9,k:"sight",l:"Palazzo Barberini（Plan C）",m:"Palazzo Barberini Roma",mo:"driving",leg:"步行 10 分到特雷维 · 9 分到万神殿"},
-      {x:175,y:733,n:10,k:"eat",l:"Pietro al Pantheon",m:"Pietro al Pantheon Via dei Pastini 125 Roma",mo:"walking",leg:"步行 7 分"},
-      {x:303,y:684,n:11,k:"sight",l:"特雷维喷泉",m:"Fontana di Trevi Roma",mo:"walking",leg:"打车 8 分回家"}
+      {x:839,y:576,n:1,k:"stay",l:"住处·卡斯特罗",m:"Via del Castro Pretorio 30 Roma",mo:"walking",leg:"步行 5 分"},
+      {x:662,y:323,n:2,k:"eat",l:"Faro Caffè Specialty",m:"Faro Caffe Specialty Via Piave 55 Roma",mo:"walking",leg:"步行 11 分"},
+      {x:564,y:496,n:3,k:"sight",l:"圣母胜利教堂·贝尼尼《圣特雷莎的狂喜》",m:"Santa Maria della Vittoria Roma",mo:"walking",leg:"步行 9 分到 Termini"},
+      {x:701,y:581,n:4,k:"transit",l:"Termini 地铁 B",m:"Termini Roma",mo:"walking",leg:"地铁 B 一站到 Cavour"},
+      {x:487,y:803,n:5,k:"sight",l:"Monti 小广场",m:"Piazza della Madonna dei Monti Roma",mo:"walking",leg:"步行 10 分到集合点"},
+      {x:511,y:927,n:6,k:"sight",l:"斗兽场·古罗马",m:"Colosseo",mo:"walking",leg:"打车 7 分"},
+      {x:463,y:540,n:7,k:"sight",l:"巴贝里尼宫",m:"Palazzo Barberini Roma",mo:"driving",leg:"步行 10 分"},
+      {x:310,y:613,n:8,k:"sight",l:"特雷维喷泉",m:"Fontana di Trevi Roma",mo:"walking",leg:"步行 9 分"},
+      {x:160,y:687,n:9,k:"sight",l:"万神殿（可选进去）· 圣依纳爵",m:"Pantheon Roma",mo:"walking",leg:"步行 1 分"},
+      {x:182,y:662,n:10,k:"eat",l:"Pietro al Pantheon",m:"Pietro al Pantheon Via dei Pastini 125 Roma",mo:"walking",leg:"打车 8 分回家"}
     ]
   },
   "3": {
     w:1000, h:1250,
     img:"maps/3.jpg",
-    walk:[[726,588],[725,583],[725,578],[728,578],[731,578],[734,582],[753,582],[763,581],[770,581],[782,578],[786,578],[793,577],[800,576],[803,575],[814,574],[819,572],[814,574],[803,575],[800,575],[793,577],[787,578],[782,578],[770,581],[763,581],[753,582],[735,582],[731,578],[728,578],[725,578],[722,578],[719,582],[716,582],[713,582],[710,582],[705,582],[702,582],[691,582],[687,582],[685,572],[683,571],[680,571],[662,570],[657,571],[655,572],[656,578],[646,579],[645,585],[644,579],[635,576],[631,576],[620,577],[607,577],[601,576],[598,576],[596,575],[593,573],[591,572],[589,570],[584,568],[582,566],[579,568],[576,571],[571,566],[564,562],[563,564],[561,566],[559,567],[557,568],[554,568],[549,567],[541,565],[533,563],[531,562],[528,560],[526,559],[524,557],[522,555],[518,549],[511,540],[506,534],[502,529],[499,525],[497,523],[495,520],[493,516],[490,516],[487,516],[486,513],[486,510],[484,491],[483,474],[470,474],[460,475],[459,472],[461,465],[459,456],[457,447],[457,440],[460,439],[463,438],[476,437],[481,436],[481,441],[481,444],[481,441],[481,436],[476,437],[463,438],[460,439],[457,440],[457,445],[459,456],[461,465],[459,471],[460,475],[452,476],[447,476],[444,471],[444,468],[441,464],[441,459],[440,455],[439,453],[439,450],[438,448],[437,446],[437,443],[436,441],[435,439],[433,441],[431,442],[425,432],[411,425],[408,425],[406,424],[405,422],[401,421],[399,420],[384,411],[383,409],[383,406],[379,404],[363,396],[363,392],[364,388],[364,385],[364,378],[364,378],[364,384],[364,387],[363,392],[361,391],[358,391],[354,391],[351,390],[349,389],[344,387],[339,384],[337,383],[327,378],[325,377],[313,371],[312,374],[311,376],[308,375],[306,374],[302,373],[297,372],[292,372],[287,371],[283,370],[281,368],[268,364],[262,362],[260,361],[258,360],[255,360],[253,359],[246,357],[235,354],[228,319],[205,327],[200,328],[189,332],[186,335],[183,336],[182,338],[183,341],[185,342],[189,347],[190,344],[190,344],[189,347],[185,342],[183,341],[182,339],[181,336],[186,335],[189,332],[200,328],[205,327],[228,319],[235,353],[246,357],[253,359],[255,360],[258,360],[260,361],[262,362],[268,364],[281,368],[281,373],[281,378],[280,393],[280,403],[280,413],[279,422],[279,425],[278,427],[279,429],[279,446],[279,449],[278,451],[281,454],[284,457],[287,459],[290,464],[286,465],[274,477],[275,479],[275,482],[274,484],[273,485],[571,806],[573,805],[574,803],[585,791],[574,801],[573,805],[575,807],[569,812],[568,817],[571,822],[560,832],[564,837],[569,840],[570,842],[571,844],[569,846],[569,852],[566,852],[567,862],[568,865],[572,867],[572,872],[566,872],[572,872],[579,873],[583,873],[588,874],[592,874],[602,875],[620,877],[627,878],[633,878],[636,879],[640,879],[645,879],[647,880],[660,881],[663,881],[668,881],[666,900],[676,904],[675,906],[673,915],[681,918],[703,925],[706,926],[716,930],[720,931]],
-    walkBreaks:[147, 191, 233],
-    drive:[[247,504],[251,512],[253,513],[255,515],[255,526],[255,530],[255,535],[255,538],[255,541],[259,544],[267,547],[327,562],[334,563],[350,565],[355,565],[358,565],[361,565],[371,564],[377,564],[381,563],[384,563],[387,563],[391,564],[392,566],[393,568],[396,580],[397,584],[398,586],[402,595],[405,598],[406,600],[408,602],[410,606],[419,621],[429,637],[447,668],[451,675],[453,678],[454,680],[456,682],[459,685],[461,687],[469,695],[486,712],[488,714],[492,718],[517,744],[566,797],[568,800],[566,802],[565,804],[563,805],[559,805],[546,804],[540,806],[545,810],[550,813],[556,815],[567,818],[569,813],[571,810]],
+    walk:[[818,616],[810,619],[803,622],[800,622],[791,624],[788,624],[782,625],[778,626],[775,627],[771,628],[769,629],[766,629],[763,629],[761,627],[759,626],[758,624],[756,623],[752,622],[749,622],[747,621],[744,621],[743,619],[743,615],[743,611],[743,608],[739,608],[735,608],[714,608],[713,606],[701,601],[700,599],[696,600],[692,601],[687,601],[686,599],[685,597],[679,598],[676,598],[670,594],[662,588],[658,586],[656,584],[655,571],[652,571],[650,572],[651,578],[641,579],[640,585],[640,579],[630,576],[626,576],[616,577],[603,577],[597,576],[594,576],[592,575],[590,574],[588,573],[586,572],[584,570],[579,568],[577,566],[574,568],[572,571],[566,566],[560,562],[558,564],[556,566],[554,567],[552,568],[549,568],[544,567],[537,565],[529,563],[526,562],[524,560],[522,559],[520,558],[518,555],[514,549],[506,540],[501,534],[497,529],[494,525],[492,523],[491,520],[489,519],[488,516],[484,516],[481,516],[481,513],[481,510],[480,491],[479,474],[465,474],[456,475],[455,472],[456,465],[454,456],[452,447],[452,440],[456,439],[459,438],[472,437],[477,436],[477,441],[477,444],[477,441],[477,436],[472,437],[459,438],[456,439],[452,440],[452,445],[454,456],[456,465],[454,471],[456,475],[447,476],[443,476],[439,471],[440,469],[437,464],[436,459],[436,455],[435,453],[434,450],[433,448],[433,445],[432,443],[431,441],[430,439],[428,441],[426,442],[420,432],[407,425],[404,425],[401,424],[400,422],[396,421],[394,420],[379,411],[379,407],[377,405],[375,404],[359,396],[359,392],[359,388],[359,385],[360,378],[360,378],[359,384],[359,387],[359,392],[356,391],[351,391],[347,390],[344,389],[340,387],[335,384],[333,383],[331,382],[322,378],[320,377],[308,371],[307,374],[306,376],[303,375],[301,374],[298,373],[292,372],[287,372],[283,371],[278,370],[277,368],[264,364],[257,362],[254,360],[251,360],[249,359],[242,357],[231,354],[224,319],[200,327],[195,328],[185,332],[181,335],[178,336],[177,338],[178,340],[180,342],[185,347],[185,344],[185,344],[185,347],[180,342],[178,341],[177,339],[177,336],[181,335],[184,332],[195,328],[200,327],[224,319],[230,353],[242,357],[249,359],[251,360],[254,360],[256,361],[264,364],[277,368],[276,373],[276,378],[276,393],[275,403],[275,413],[275,422],[274,425],[274,428],[274,446],[274,449],[273,451],[276,454],[279,457],[282,459],[285,464],[282,465],[269,477],[270,479],[271,481],[270,483],[269,485],[567,806],[570,803],[569,801],[580,791],[570,801],[568,805],[570,807],[564,812],[564,817],[566,822],[555,832],[559,837],[562,837],[564,840],[565,842],[567,844],[564,846],[564,852],[562,862],[563,865],[568,867],[567,872],[561,872],[567,872],[574,873],[578,873],[584,874],[587,874],[598,875],[615,877],[623,878],[628,878],[631,879],[636,879],[640,879],[642,880],[655,881],[658,881],[663,881],[661,900],[672,904],[671,906],[669,915],[676,918],[699,925],[702,926],[711,930],[715,931]],
+    walkBreaks:[150, 193, 233],
+    drive:[[242,504],[247,512],[249,513],[251,515],[250,517],[250,526],[250,530],[250,535],[250,538],[250,541],[254,544],[263,547],[323,562],[329,563],[345,565],[350,565],[354,565],[366,564],[372,564],[377,563],[380,563],[383,563],[386,564],[388,566],[389,568],[392,580],[393,584],[394,586],[398,595],[400,598],[402,600],[403,602],[406,606],[415,621],[424,637],[442,668],[446,675],[448,678],[450,680],[451,682],[455,685],[456,687],[458,688],[465,695],[481,712],[483,714],[487,718],[512,744],[561,797],[564,800],[562,802],[560,804],[558,805],[555,805],[542,804],[540,803],[535,806],[540,810],[546,813],[551,815],[562,818],[564,817],[564,813],[566,810]],
     driveBreaks:[],
-    title:"D3 万神殿 → 梵蒂冈 → Trastevere（步行 + 打车）",
+    title:"D3 Doria Pamphilj → 纳沃纳 → 梵蒂冈 → Trastevere（步行 + 打车）",
     pins:[
-      {x:726,y:595,n:1,k:"sight",l:"万神殿",m:"Pantheon Roma",mo:"walking",leg:"步行 3 分"},
-      {x:819,y:572,n:2,k:"sight",l:"圣依纳爵堂",m:"Chiesa di Sant Ignazio di Loyola Roma",mo:"walking",leg:"步行 8 分"},
-      {x:640,y:585,n:3,k:"sight",l:"纳沃纳广场",m:"Piazza Navona Roma",mo:"walking",leg:"步行 15 分 过圣天使桥"},
-      {x:482,y:454,n:4,k:"sight",l:"圣天使堡",m:"Castel Sant Angelo Roma",mo:"walking",leg:"步行 10 分"},
-      {x:364,y:378,n:5,k:"eat",l:"Il Sorpasso",m:"Il Sorpasso Via Properzio 31 Roma",mo:"walking",leg:"步行 15 分到集合点"},
-      {x:192,y:345,n:6,k:"sight",l:"梵蒂冈博物馆",m:"Musei Vaticani",mo:"walking",leg:"讲解团 3 小时"},
-      {x:271,y:482,n:7,k:"sight",l:"圣彼得广场",m:"Basilica di San Pietro",mo:"walking",leg:"打车 10 分"},
-      {x:568,y:807,n:8,k:"sight",l:"Piazza Trilussa · Ponte Sisto 日落",m:"Ponte Sisto Roma",mo:"walking",leg:"逛小巷 · 步行 8 分"},
-      {x:720,y:931,n:9,k:"eat",l:"Spirito di Vino",m:"Spirito di Vino Roma",mo:"walking",leg:"打车 15 分回家"}
+      {x:823,y:623,n:1,k:"sight",l:"Doria Pamphilj 美术馆",m:"Galleria Doria Pamphilj Roma",mo:"driving",leg:"步行 7 分"},
+      {x:635,y:585,n:2,k:"sight",l:"纳沃纳广场",m:"Piazza Navona Roma",mo:"walking",leg:"步行 15 分 过圣天使桥"},
+      {x:477,y:454,n:3,k:"sight",l:"圣天使堡",m:"Castel Sant Angelo Roma",mo:"walking",leg:"步行 10 分"},
+      {x:360,y:378,n:4,k:"eat",l:"Il Sorpasso",m:"Il Sorpasso Via Properzio 31 Roma",mo:"walking",leg:"步行 15 分到集合点"},
+      {x:187,y:345,n:5,k:"sight",l:"梵蒂冈博物馆",m:"Musei Vaticani",mo:"walking",leg:"讲解团 3 小时"},
+      {x:266,y:482,n:6,k:"sight",l:"圣彼得广场",m:"Basilica di San Pietro",mo:"walking",leg:"打车 10 分"},
+      {x:563,y:807,n:7,k:"sight",l:"Piazza Trilussa · Ponte Sisto 日落",m:"Ponte Sisto Roma",mo:"walking",leg:"逛小巷 · 步行 8 分"},
+      {x:715,y:931,n:8,k:"eat",l:"Spirito di Vino",m:"Spirito di Vino Roma",mo:"walking",leg:"打车 15 分回家"}
     ]
   },
   "4": {
@@ -1854,9 +1837,9 @@ var PREP = [
     d:"含票，3 人，用护照拼音出票：TANG YANHUI / SU YIWEN / ZHU YING。" },
   { id:"prep-2", cat:"🎫 门票 / 讲解团", a:"梵蒂冈讲解团：订 10/8 13:30 场",
     d:"含票。" },
-  { id:"prep-3", cat:"🎫 门票 / 讲解团", a:"博尔盖塞美术馆：官方 10/6–10/9 全部售罄，不买第三方，10/7 现场排 last minute 票",
-    d:"9/21 邮件问过 tosc.it，回复所有场次 sold out；第三方英文导览团 3 人可订的都在 €125/人以上，放弃。10/7 斗兽场出来直接去排现场票，Plan A / Plan B 写在 D2 里；不想赌就走 Plan C：Palazzo Barberini（周三开，€15，现场买）。早上顺路先看圣母胜利教堂的贝尼尼《圣特雷莎的狂喜》，免费。",
-    link:{u:"https://galleriaborghese.it", l:"galleriaborghese.it"} },
+  { id:"prep-3", cat:"🎫 门票 / 讲解团", a:"博尔盖塞美术馆：售罄，放弃；10/7 下午改巴贝里尼宫、10/8 上午 Doria Pamphilj，都现场买票",
+    d:"9/21 邮件问过 tosc.it，所有场次 sold out；第三方英文团 €125/人起不买；排现场票不赌。替代：10/7 巴贝里尼宫（周三开，€15，卡拉瓦乔《朱迪斯》+ 拉斐尔《弗娜丽娜》+ 贝尼尼胸像）+ 早上免费看圣母胜利教堂的贝尼尼《圣特雷莎的狂喜》；10/8 Doria Pamphilj（周四开，€16 含语音导览，委拉斯开兹《英诺森十世》+ 两幅卡拉瓦乔 + 贝尼尼胸像）。",
+    link:{u:"https://www.coopculture.it/it/prodotti/biglietto-individuali-palazzo-barberini/", l:"巴贝里尼宫 coopculture.it"} },
   { id:"prep-4", cat:"🎫 门票 / 讲解团", a:"学院美术馆 + 巴杰罗 48 小时通票：已买（€26/人，学院 10/10 15:30 场）",
     d:"巴杰罗排在 10/10 学院出来后（可选），用同一张二维码进，不用再买；确认邮件截图存到手机相册。",
     link:{u:"https://www.b-ticket.com", l:"b-ticket.com"} },
@@ -1912,8 +1895,8 @@ var PREP = [
     d:"官网订；没有意大利手机号订不上就电话 +39 02 3983 1019。订不上改 Trippa 电话 / WhatsApp +39 327 668 7908。" }
 ]},
 { when:"9/28-10/2 做", items:[
-  { id:"prep-32", cat:"🎫 门票", a:"万神殿 10/8 上午票 €7 × 3（官网 10/1 后开卖当月票）",
-    d:"官方只认 Musei Italiani 平台（网页或同名 App）：搜 Pantheon → 日期 08/10/2026 → 时段 9:30 → 3 张 → 付款。实名，带护照；提前买好只排安检队。",
+  { id:"prep-32", cat:"🎫 门票", a:"万神殿票不用提前买：10/7 傍晚有精力再手机现买 €7 的 18:00 时段（可选）",
+    d:"官方只认 Musei Italiani（网页或同名 App，先注册账号）：搜 Pantheon → 日期 07/10/2026 → 时段 18:00 → 3 张 Intero €7 → 填三个人名（实名）→ 刷卡 → 二维码在 App 和邮件里，进门出示 + 护照。每个时段 1,200 人，10 月傍晚一般当场买得到；现场售票处 18:00 关、18:30 最后入场，所以那天只能网上买。出发前把 App 装好、账号注册好。",
     link:{u:"https://portale.museiitaliani.it/", l:"官方售票 portale.museiitaliani.it"} },
   { id:"prep-23", cat:"🍽 订位（10 月才开放）", a:"Pietro al Pantheon（10/7 晚 19:30 · 罗马）",
     d:"TheFork 或电话 +39 06 678 9940；桌少必须订，要里面的桌，别迟到超过 15 分钟。订不上改 Antonio al Pantheon。" },
